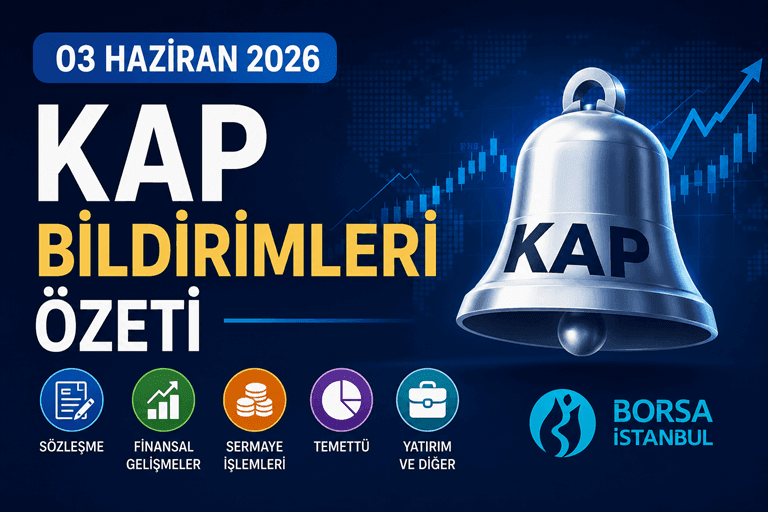
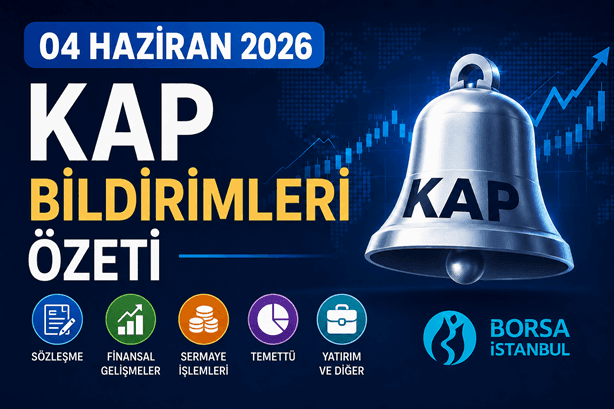
yaz

diff --git a/app/haber/haber-978/page.tsx b/app/haber/haber-978/page.tsx
@@ -3,8 +3,8 @@ import Link from "next/link";
 import type { Metadata } from "next";
 
 export const metadata: Metadata = {
-  title: "03 Haziran 2026 Çarşamba KAP Bildirimleri Özeti",
-  description: "03 Haziran 2026 Çarşamba KAP Bildirimleri Özeti",
+  title: "04 Haziran 2026 Perşembe KAP Bildirimleri Özeti",
+  description: "04 Haziran 2026 Perşembe KAP Bildirimleri Özeti",
 };
 
 function ReklamAlani({ variant = "yatay" }: { variant?: "yatay" | "icerik" }) {
@@ -25,54 +25,69 @@ function ReklamAlani({ variant = "yatay" }: { variant?: "yatay" | "icerik" }) {
 
 const kapHaberleri = [
   {
-    baslik: "SASA Polyester (SASA)",
+    baslik: "ASELSAN (ASELS)",
     metin:
-      "SASA, mayıs ayında 136,7 milyon dolar gelir elde ettiğini açıkladı. Şirketin satış hacmi ve gelir tarafındaki büyüme verisi, operasyonel performans açısından dikkat çekti. Özellikle aylık bazda açıklanan yüksek gelir, şirketin üretim ve satış temposunun güçlü seyrettiğini göstermesi bakımından pozitif değerlendirilebilir.",
+      "ASELSAN, Savunma Sanayii Başkanlığı ile Radar ve Kamu Güvenliği Haberleşme Sistemleri tedarikine yönelik toplam 271,45 milyon dolar tutarında sözleşme imzaladı. Bu haber, şirketin savunma sanayii tarafındaki güçlü sipariş akışının devam ettiğini gösteriyor. Yüksek tutarlı sözleşme olması nedeniyle günün en önemli pozitif başlıklarından biri olarak öne çıktı.",
   },
   {
-    baslik: "Smart Güneş Teknolojileri (SMRTG)",
+    baslik: "ARD Grup Bilişim (ARDYZ)",
     metin:
-      "Smart Güneş Teknolojileri, 2026 yılı güneş paneli satışlarına ilişkin 10 milyon dolar tutarında sözleşme imzaladığını duyurdu. Yenilenebilir enerji tarafında gelen bu sözleşme, şirketin sipariş görünürlüğünü destekleyen pozitif bir iş ilişkisi haberi olarak öne çıkıyor.",
+      "ARD Grup Bilişim’in 3,5 milyon dolarlık yeni iş aldığı açıklandı. Şirket ölçeği açısından dikkate değer bir iş ilişkisi haberi olarak değerlendirilebilir. Yeni iş alımları, özellikle teknoloji ve yazılım şirketlerinde gelir görünürlüğü açısından yatırımcıların takip ettiği başlıklar arasında yer alıyor.",
   },
   {
-    baslik: "Türk İlaç ve Serum Sanayi (TRILC)",
+    baslik: "Koleksiyon Mobilya (KLPVY)",
     metin:
-      "Türk İlaç ve Serum Sanayi, finansal sıkışıklık, kredi ve çek ödemelerindeki gecikmeler ile bozulan nakit akışı nedeniyle konkordato başvurusunda bulundu. Mahkeme tarafından şirket için 3 aylık geçici mühlet kararı verildi. Ayrıca şirket paylarının Yakın İzleme Pazarı’nda işlem görmeye başlayacağı duyuruldu. Bu gelişme, günün en dikkat çeken olumsuz haberlerinden biri olarak öne çıktı.",
+      "Koleksiyon Mobilya tarafında 812,5 milyon TL tutarında iş alındığı açıklandı. Tutarın yüksek olması nedeniyle şirketin ciro beklentileri açısından önemli bir gelişme olarak öne çıkıyor. Bu haber, günün dikkat çeken büyük iş ilişkisi başlıklarından biri oldu.",
+  },
+  {
+    baslik: "Aksa Enerji (AKSEN)",
+    metin:
+      "Aksa Enerji’nin Gaziantep’te yer alan 40,5 MWe / 58 MWp kurulu güce ve 48.169 MWh depolama kapasitesine sahip Pamuk Depolamalı GES yatırımının işletmeye alındığı açıklandı. Yenilenebilir enerji ve depolamalı GES tarafında gelen bu haber, şirketin enerji üretim portföyünü çeşitlendirmesi açısından pozitif değerlendirilebilir.",
   },
   {
     baslik: "Otokar (OTKAR)",
     metin:
-      "Otokar, 369 gün vadeli 1 milyar TL tutarında tahvil ihracı gerçekleştirdiğini açıkladı. Bu haber, şirketin finansman ihtiyacını sermaye piyasaları üzerinden karşılama adımı olarak değerlendirilebilir. Borçlanma aracı ihracı şirketin nakit yönetimi ve finansman yapısı açısından izlenmeli.",
+      "Otokar, Automecanica S.A. sermayesinin yüzde 96,77’sini temsil eden payları devraldı. Pay alım bedeli olarak ödenen 10 milyon euroya ek olarak 46,74 milyon euro ödeme yapıldığı açıklandı. Bu gelişme, şirketin yurt dışı büyüme ve satın alma stratejisi açısından önemli bir adım olarak izlenebilir.",
   },
   {
-    baslik: "Alves Kablo (ALVES)",
+    baslik: "Ebebek (EBEBK)",
     metin:
-      "Alves Kablo, sermayesini 1,6 milyar TL’den 4,8 milyar TL’ye çıkarmak amacıyla yüzde 200 oranında bedelli sermaye artırımı için SPK’ya başvurdu. Bedelli sermaye artırımı şirket için fon girişi yaratabilir. Ancak mevcut ortaklar açısından nakit katılım ihtiyacı ve sulandırma etkisi doğurabileceği için dikkatle takip edilmesi gereken bir süreçtir.",
+      "Ebebek, mayıs ayında mağaza ziyaretçi sayısının 5,21 milyon olduğunu açıkladı. Geçen yılın aynı ayında bu sayı 4,29 milyon seviyesindeydi. Perakende tarafında müşteri trafiğindeki artış, satış potansiyeli açısından pozitif sinyal olarak görülebilir.",
   },
   {
-    baslik: "Bilici Yatırım (BLCYT)",
+    baslik: "Global Yatırım Holding (GLYHO)",
     metin:
-      "Bilici Yatırım, sermayesini 100 milyon TL’den 1 milyar TL’ye çıkarmak üzere yüzde 900 oranında bedelsiz sermaye artırımı kararı aldı. Bedelsiz sermaye artırımı haberleri yatırımcı ilgisini artırabilen başlıklar arasında yer alır. Ancak şirketin piyasa değeri değişmediği için bu tür haberlerde fiyat hareketleri ayrıca dikkatle izlenmelidir.",
+      "Global Yatırım Holding’in dolaylı bağlı ortaklığı Global Ports Holding’in, Ferrol Kruvaziyer Limanı’nın 30 yıl süreyle işletilmesine yönelik imtiyaz hakkını resmi olarak kazandığı açıklandı. Kruvaziyer limanı işletmeciliği tarafında uzun vadeli gelir potansiyeli taşıyan bu gelişme, şirketin uluslararası liman portföyünü güçlendirmesi açısından önemli.",
   },
   {
-    baslik: "Hedef Holding (HEDEF)",
+    baslik: "Margün Enerji (MAGEN)",
     metin:
-      "Hedef Holding’in yüzde 53,88 oranında bedelsiz sermaye artırımı süreci de günün sermaye işlemleri arasında öne çıktı. Sermaye artırımı sonrası şirket sermayesinin 3 milyar TL seviyesine yükselmesi bekleniyor. Hak kullanımı ve sermaye işlemleri açısından yatırımcıların takip ettiği haberlerden biri oldu.",
+      "Margün Enerji’nin yüzde 100 bağlı ortaklığı Bosphorus Yenilenebilir Enerji ile yurt içindeki bir şirket arasında Denizli ve Manisa’da 9 adet jeotermal kaynak ruhsatının devralınması sürecinin tamamlandığı açıklandı. Bu haber, yenilenebilir enerji portföyünü genişletme ve jeotermal kaynak tarafında büyüme açısından dikkat çekiyor.",
   },
   {
-    baslik: "Enpara Bank (ENPRA)",
+    baslik: "Türk İlaç ve Serum Sanayi (TRILC)",
     metin:
-      "ENPRA, toplam 2,8 milyar TL anapara büyüklüğündeki tahsili gecikmiş alacak portföyünü devretti. Bu tür işlemler finansal kurumlarda bilanço temizliği ve aktif kalitesi açısından önemli görülür. Sorunlu alacakların devri, takipteki alacak yükünü azaltma amacı taşıdığı için izlenmesi gereken bir gelişmedir.",
+      "Türk İlaç ve Serum Sanayi paylarının Yakın İzleme Pazarı’nda işlem görmeye başlayacağı açıklandı. Ayrıca JCR Eurasia tarafından şirketin uzun vadeli ulusal kurum kredi rating notunun BB(tr)’den CC(tr)’ye düşürüldüğü bildirildi. Bu gelişme, günün en dikkat çeken olumsuz haberlerinden biri oldu ve şirket tarafında finansal risk algısının arttığını gösterdi.",
   },
   {
-    baslik: "Kızılbük GYO (KZBGY)",
+    baslik: "Mega Metal (MEGMT)",
     metin:
-      "Kızılbük GYO, mayıs ayında Marmaris Sinpaş projesinde 169 milyon TL tutarında 170 adet devre mülk satışı gerçekleştirdiğini açıkladı. Gayrimenkul satış performansı açısından olumlu değerlendirilebilecek bir veri olarak öne çıktı.",
+      "Mega Metal, sermayesini 265 milyon TL’den 2,5 milyar TL’ye çıkarmak amacıyla yüzde 860 oranında bedelsiz sermaye artırımı için SPK’ya başvurdu. Bedelsiz sermaye artırımı haberleri yatırımcı ilgisini artırabilen başlıklar arasında yer alır. Ancak şirketin piyasa değeri doğrudan değişmediği için fiyat hareketleri ayrıca dikkatle izlenmelidir.",
   },
   {
-    baslik: "İskenderun Demir Çelik / Ereğli Demir Çelik (ISDMR / EREGL)",
+    baslik: "Şekerbank (SKBNK)",
     metin:
-      "03 Haziran 2026 tarihinde temettü tarafında ISDMR ve EREGL öne çıktı. ISDMR’nin pay başına 4,5 TL brüt temettü ödemesi dikkat çekerken, EREGL tarafındaki nakit kâr payı ödemesi de yatırımcıların takip ettiği önemli başlıklar arasında yer aldı.",
+      "Şekerbank, sermayesini 2,5 milyar TL’den 3,5 milyar TL’ye çıkarmak amacıyla yüzde 40 oranında bedelli sermaye artırımı için SPK’ya başvurdu. Bedelli sermaye artırımı banka için kaynak girişi yaratabilir. Ancak mevcut ortaklar açısından nakit katılım ihtiyacı ve sulandırma etkisi nedeniyle dikkatle takip edilmesi gereken bir süreçtir.",
+  },
+  {
+    baslik: "Pay Geri Alımları",
+    metin:
+      "Geri alım tarafında AHGAZ, ENERY, GOKNR, GLYHO ve NTHOL öne çıktı. AHGAZ 240.000 adet, ENERY 200.000 adet, GOKNR 349.336 adet, GLYHO 500.000 adet ve NTHOL 200.000 adet pay geri alımı gerçekleştirdi. Geri alımlar, şirket yönetimlerinin mevcut fiyat seviyelerini destekleme eğilimi olarak algılanabilir ancak tek başına operasyonel büyüme haberi değildir.",
+  },
+  {
+    baslik: "Temettü Tarafı",
+    metin:
+      "04 Haziran 2026 tarihinde temettü tarafında ATAKP ve TABGD öne çıktı. ATAKP pay başına 0,70 TL brüt, TABGD ise pay başına 5,00 TL brüt temettü ödemesi yaptı. Temettü ödemeleri, düzenli nakit akışı takip eden yatırımcılar açısından günün önemli başlıkları arasında yer aldı.",
   },
 ];
 
@@ -100,7 +115,7 @@ export default function Haber978Page() {
           <div className="relative aspect-[16/9] w-full overflow-hidden bg-zinc-100">
             <Image
               src="/haber978.png"
-              alt="03 Haziran 2026 Çarşamba KAP Bildirimleri Özeti"
+              alt="04 Haziran 2026 Perşembe KAP Bildirimleri Özeti"
               fill
               unoptimized
               className="object-contain"
@@ -109,15 +124,16 @@ export default function Haber978Page() {
 
           <div className="p-5 md:p-8">
             <h1 className="text-2xl font-bold leading-tight text-zinc-900 md:text-4xl">
-              03 Haziran 2026 Çarşamba KAP Bildirimleri Özeti
+              04 Haziran 2026 Perşembe KAP Bildirimleri Özeti
             </h1>
 
             <div className="mt-6 space-y-6 text-base leading-8 text-zinc-700 md:text-lg">
               <p>
-                Borsa İstanbul’da 03 Haziran 2026 Çarşamba günü KAP’a düşen öne
-                çıkan bildirimlerde aylık gelir açıklamaları, yeni sözleşmeler,
-                konkordato süreci, tahvil ihracı, bedelli ve bedelsiz sermaye
-                artırımı kararları ile temettü ödemeleri dikkat çekti.
+                Borsa İstanbul’da 04 Haziran 2026 Perşembe günü KAP’a düşen öne
+                çıkan bildirimlerde yüksek tutarlı sözleşmeler, yeni iş
+                ilişkileri, enerji yatırımları, yurt dışı satın alma adımları,
+                sermaye artırımı başvuruları, pay geri alımları ve temettü
+                ödemeleri dikkat çekti.
               </p>
 
               <div className="space-y-5">
@@ -135,11 +151,13 @@ export default function Haber978Page() {
               </div>
 
               <div className="rounded-xl border border-emerald-200 bg-emerald-50 p-4 text-sm font-medium leading-7 text-emerald-900 md:text-base">
-                Günün en önemli başlıkları arasında SASA’nın mayıs ayı gelir
-                açıklaması, SMRTG’nin 10 milyon dolarlık sözleşmesi, TRILC’nin
-                konkordato başvurusu ve Yakın İzleme Pazarı süreci, OTKAR’ın 1
-                milyar TL tahvil ihracı, ALVES’in yüzde 200 bedelli başvurusu ve
-                BLCYT’nin yüzde 900 bedelsiz sermaye artırımı kararı öne çıktı.
+                Günün en önemli başlıkları arasında ASELS’in 271,45 milyon
+                dolarlık sözleşmesi, KLPVY’nin 812,5 milyon TL’lik iş alımı,
+                AKSEN’in Pamuk Depolamalı GES yatırımının işletmeye alınması,
+                OTKAR’ın Automecanica pay devrini tamamlaması, GLYHO’nun Ferrol
+                Limanı imtiyazı, TRILC’nin Yakın İzleme Pazarı süreci ve kredi
+                notu indirimi, MEGMT’nin yüzde 860 bedelsiz ve SKBNK’nin yüzde
+                40 bedelli sermaye artırımı başvurusu öne çıktı.
               </div>
 
               <div className="rounded-xl border border-amber-200 bg-amber-50 p-4 text-sm font-medium leading-7 text-amber-900 md:text-base">

diff --git a/app/data/news.ts b/app/data/news.ts
@@ -9,7 +9,7 @@ export type NewsItem = {
 export const newsItems: NewsItem[] = [
     {
     id: 978,
-    title: "03 Haziran 2026 Salı KAP Bildirimleri Özeti",
+    title: "04 Haziran 2026 Salı KAP Bildirimleri Özeti",
     href: "/haber/haber-978",
     image: "/haber978.png",
     alt: "Haber 978 görseli",
@@ -21,15 +21,7 @@ export const newsItems: NewsItem[] = [
     image: "/haber979.png",
     alt: "Haber 979 görseli",
   },
- 
-  {
-    id: 981,
-    title: "Borsada açığa satış yasağı 12 Haziran'a uzatıldı",
-    href: "/haber/haber-981",
-    image: "/haber981.png",
-    alt: "Haber 981 görseli",
-  }, 
-  {
+   {
     id: 982,
     title: "CHP KURULTAY DAVASI'NDA 'MUTLAK BUTLAN' KARARI ÇIKTI",
     href: "/haber/haber-982",
